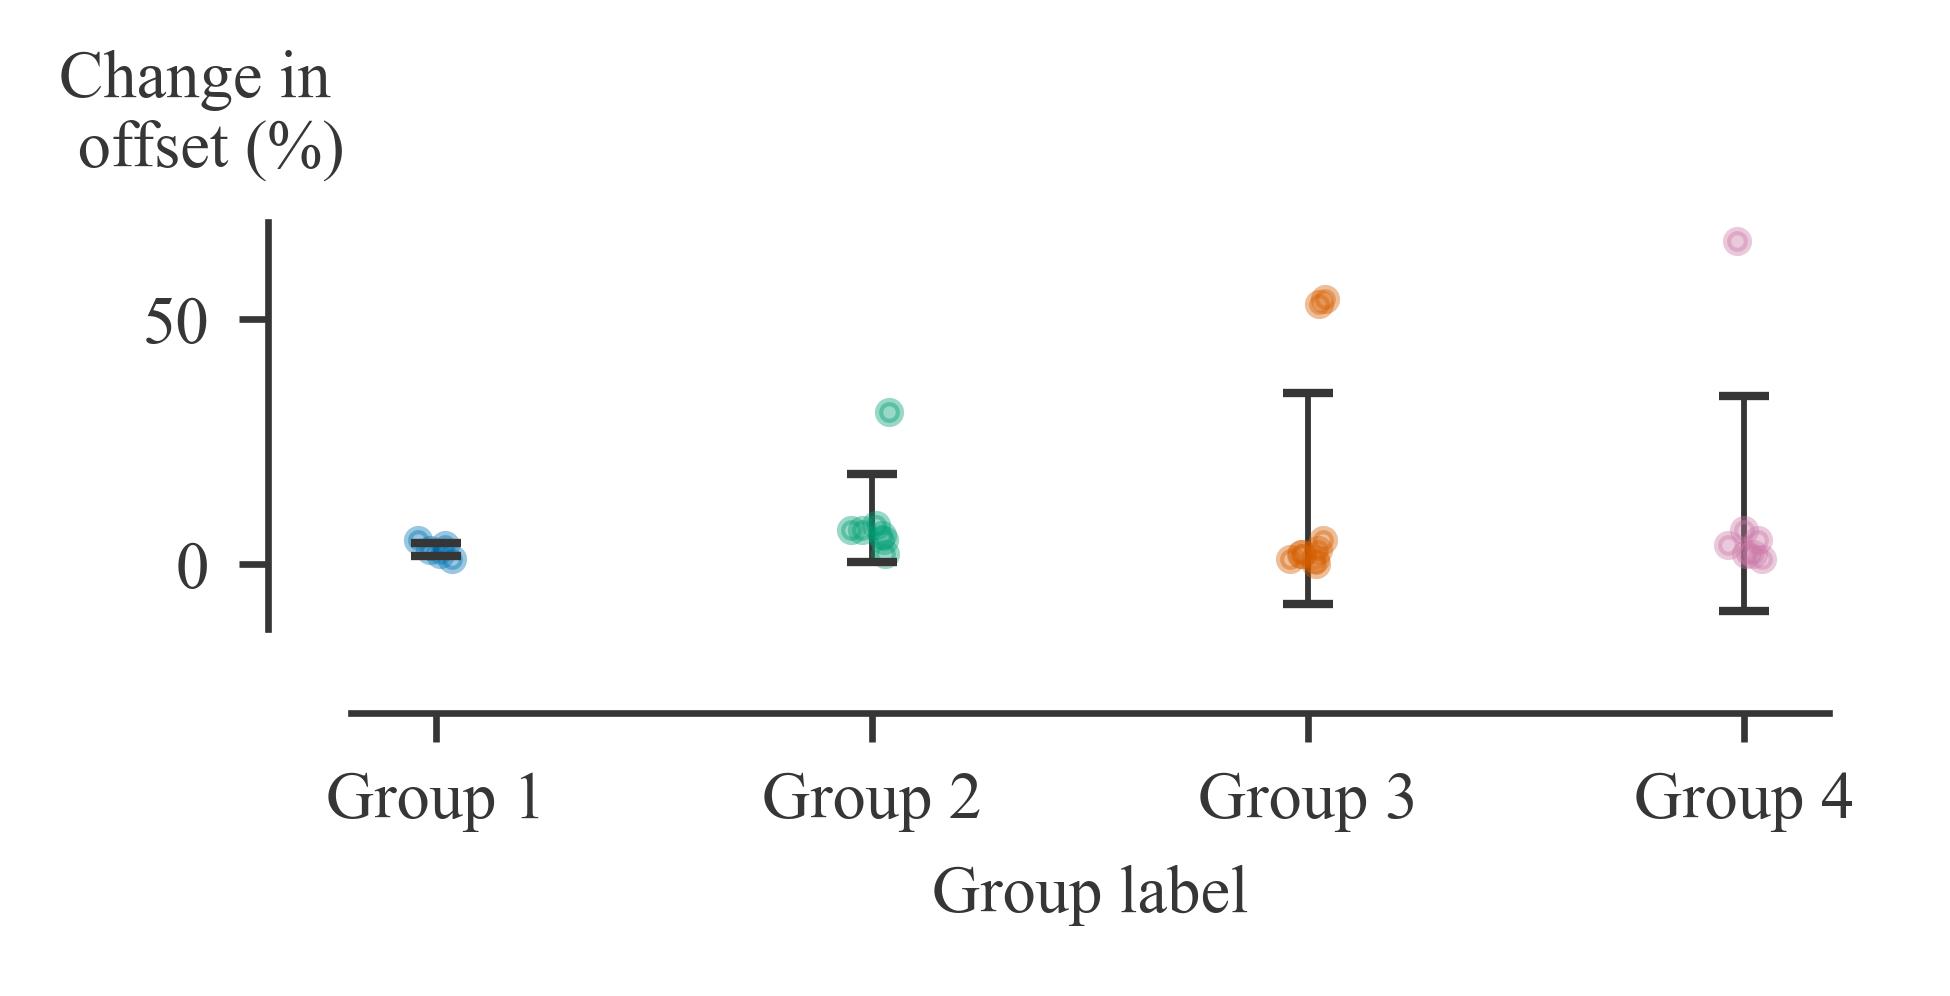
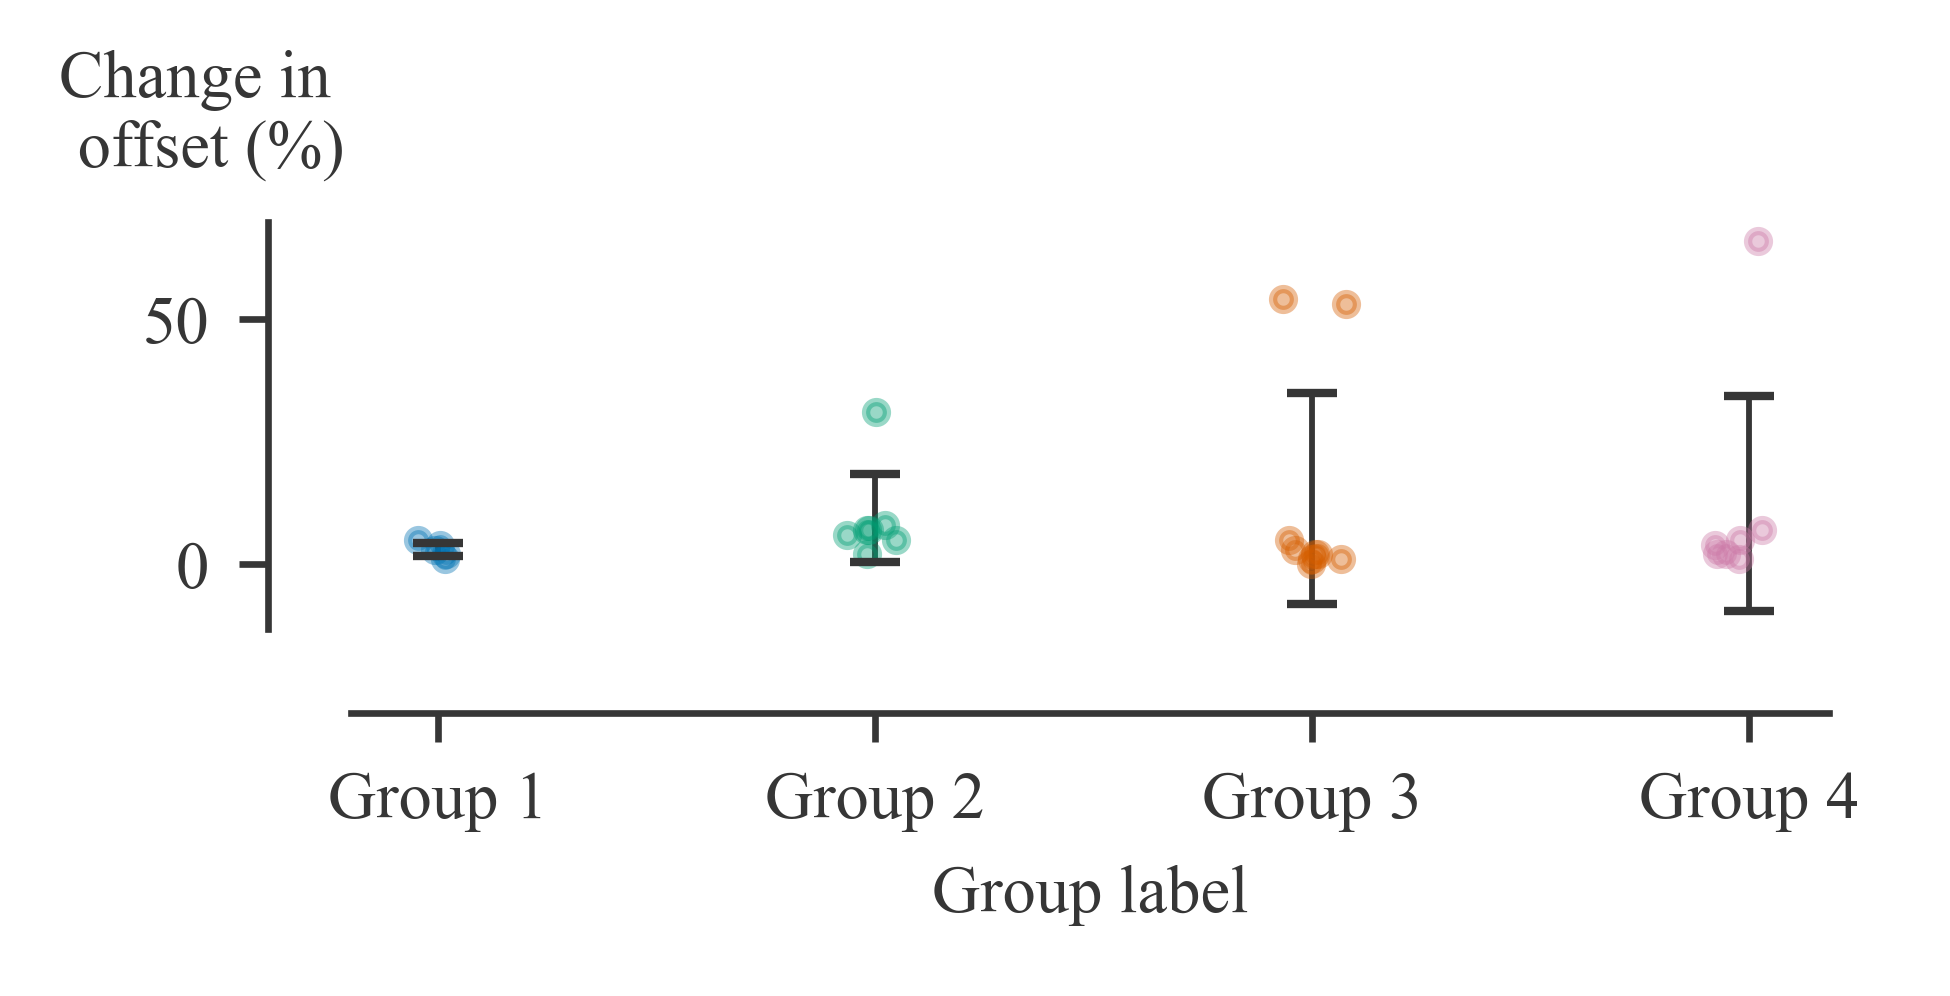
added jitter

diff --git a/errorbar_plot_different_colors/errorbar_plot_different_colors.py b/errorbar_plot_different_colors/errorbar_plot_different_colors.py
@@ -142,10 +142,10 @@ ax1 = plt.subplot(gs[0])
 x_data = [10,20,30,40]
 y_data = [[1,2,3,4,5],[2,5,6,7,8,31,7],[1,2,54,53,3,2,5,1,0],[1,2,5,66,7,4,2]]
 
-custom_errorbar_plot(ax=ax1, x_data=[x_data[0]], y_data=[y_data[0]], color=color_palette[0], add_jitter=False, jitter_max=0.5)
-custom_errorbar_plot(ax=ax1, x_data=[x_data[1]], y_data=[y_data[1]], color=color_palette[1], add_jitter=False, jitter_max=0.5)
-custom_errorbar_plot(ax=ax1, x_data=[x_data[2]], y_data=[y_data[2]], color=color_palette[2], add_jitter=False, jitter_max=0.5)
-custom_errorbar_plot(ax=ax1, x_data=[x_data[3]], y_data=[y_data[3]], color=color_palette[3], add_jitter=False, jitter_max=0.5)
+custom_errorbar_plot(ax=ax1, x_data=[x_data[0]], y_data=[y_data[0]], color=color_palette[0], add_jitter=False, jitter_max=0.8)
+custom_errorbar_plot(ax=ax1, x_data=[x_data[1]], y_data=[y_data[1]], color=color_palette[1], add_jitter=False, jitter_max=0.8)
+custom_errorbar_plot(ax=ax1, x_data=[x_data[2]], y_data=[y_data[2]], color=color_palette[2], add_jitter=False, jitter_max=0.8)
+custom_errorbar_plot(ax=ax1, x_data=[x_data[3]], y_data=[y_data[3]], color=color_palette[3], add_jitter=False, jitter_max=0.8)
 
 
 
